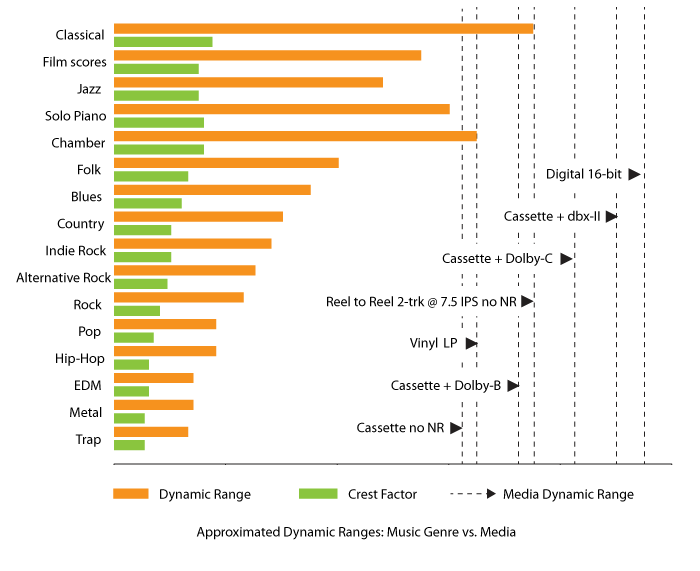
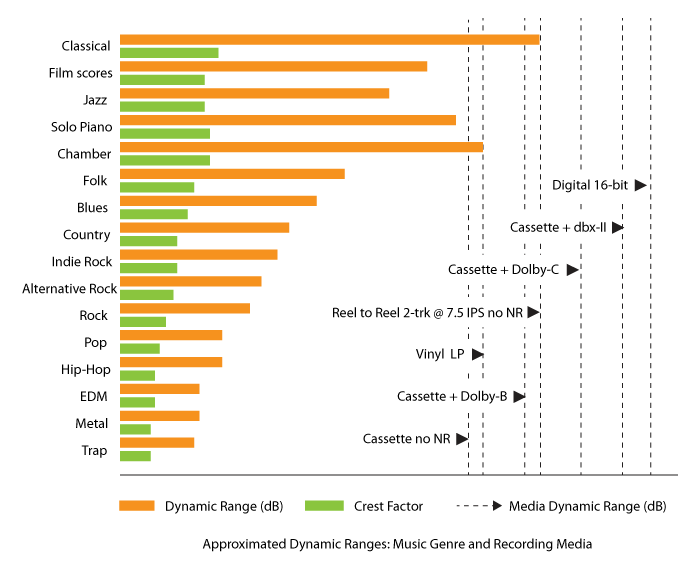
revised

diff --git a/index.html b/index.html
@@ -162,7 +162,7 @@ function updateWinAnchors()
   </tr>
   <tr>
     <td>&nbsp;</td>
-    <td><p>Traditionally, making cassette mixtape is largely an empirical craft. You learn your deck, you learn your tape, you watch the meter, you listen carefully. Eventually, you develop an intuition for how hard you can push a particular combination of equipment and material. This can work remarkably well. But intuition has its limitations: you don't know what you can't hear, or what a momentary meter can't reveal. What sounds good on one system at one moment doesn't necessarily translate well across different systems or to different listeners. If something is wrong but unnoticed at the beginning, fixing it may mean re-recording the entire side again. So you keep testing, adjusting, and trying again. Getting it right on the first pass therefore becomes a highly desirable pursuit. That is where the MixtapeNerd software project begins.</p>
+    <td><p>Traditionally, making cassette mixtape is largely an empirical craft. You learn your deck, you learn your tape, you watch the meter, you listen carefully. Eventually, you develop an intuition for how hard you can push a particular combination of equipment and material. This can work remarkably well. But intuition has its limitations: you don't know what you can't hear, and what a momentary meter can't reveal. What sounds good on one system at one moment doesn't necessarily translate well across different systems or to different listeners. If something is wrong but unnoticed at the beginning, fixing it may mean re-recording the entire side again. So you keep testing, adjusting, and trying again. Getting it right on the first pass therefore becomes a highly desirable pursuit. That is where the MixtapeNerd software project begins.</p>
 			<p>Modern digital technology gives us another possibility. Before anything is recorded onto tape, the entire program already exists as data. We can analyze it. We can measure its peaks, dynamics and average levels. We can inspect the tape and recorder, we can estimate how much headroom is available. We can predict how well the program will fit the physical medium, even making adjustment if necessary. In other words, we can make informed decision before the tape starts moving. This does not replace listening. It simply gives some useful information to work with.</p>
     <td>&nbsp;</td>
   </tr>
@@ -225,7 +225,7 @@ function updateWinAnchors()
   </tr>
   <tr>
     <td>&nbsp;</td>
-    <td><p>Heavily compressed modern pop music may have relatively little difference between its average level and its peaks. Acoustic folk music may contain much larger changes in level. Classical music can have an even wider range. This is a reason why simply watching a cassette deck's meter and turning the recording level can be surprisingly unreliable. Given the cassette’s limited dynamic range, the signal needs to be recorded loud enough to stay well above tape noise, but not so loud that sharp peaks drive the tape into excessive saturation. Finding that balance is one of the fundamental challenge of cassette recording.</p>
+    <td><p>Interestingly, modern loud pop music may have relatively little difference between its average level and its peaks, whereas acoustic folk music can exhibit much larger level variations. Classical music can have an even wider dynamic range. This is why simply watching a cassette deck's meter and adjusting the recording level can be surprisingly unreliable. Given the cassette's limited dynamic range, the signal must be recorded high enough to remain well above tape noise, but not so high that sharp peaks push the tape into excessive saturation. Finding that balance is one of the fundamental challenges of cassette recording.</p>
     <td>&nbsp;</td>
   </tr>
   <tr>
@@ -246,14 +246,14 @@ function updateWinAnchors()
   </tr>
   <tr>
     <td>&nbsp;</td>
-    <td><p>Unlike semiconductor-based amplifiers, tape saturation is not simply a wall where everything suddenly becomes distorted. As the signal approaches the tape's limits, distortion gradually increases. Cassette tape also has a characteristic nonlinear behavior that many listeners find musically pleasant. This psychoacoustic effect can create an illusion that higher recording levels are &quot;better than source&quot;, encouraging levels to be pushed beyond what would otherwise be considered prudent.</p>
-      <p>Tape specifications therefore provide useful measurements such as Maximum Output Level (MOL) and Signal-to-Noise Ratio (SNR). Together, these measurements tell us something important about the practical operating range of a particular tape and recorder combined. The difficulty is that real music is not a test tone. Its peaks are constantly changing. A short transient may be difficult to predict simply by looking at an average level. This is where digital analysis becomes useful.</p>
+    <td><p>Unlike  digital saturation, tape saturation is not simply a wall where everything suddenly becomes distorted. As the signal approaches the tape's limits, distortion gradually increases. Cassette tape  has a characteristic nonlinear behavior that many listeners find musically pleasant. This psychoacoustic effect can create an illusion that higher recording levels are &quot;better than source&quot;, encouraging levels to be pushed beyond what would otherwise be considered prudent.</p>
+      <p>Tape specifications therefore provide useful measurements such as Maximum Output Level (MOL) and Signal-to-Noise Ratio (SNR). Together, these measurements tell us something important about the practical operating range of a particular tape and recorder combined. The difficulty is that real music is not a test tone. Its peaks are constantly changing. A short transient may be difficult to predict simply by looking at a momentary meter. This is where digital analysis becomes useful.</p>
       <p>Instead of asking:<br>
         &quot;Does this meter look about right?&quot;<br>
         we can ask:<br>
         &quot;Where are the actual peaks in this entire program, and how do they relate to the usable range of this tape and deck?&quot;<br>
         That is a much more interesting question.</p>
-      <p>Once we start thinking this way, something else becomes clear. A cassette is not simply a container into which digital audio is poured. It is a format with its own limitations and characteristics. Preparing music specifically for that format is therefore a distinct step, much like the format-specific mastering in the recording industry — the source material has to be adapted to the destination in order to sound &quot;right&quot;. Sometimes it means nothing more than adjusting levels, if the original material is already perfectly suitable and should simply be left alone. Sometimes it means dealing with a large dynamic range mismatch. The important thing is that these decisions can be made deliberately. MixtapeNerd is designed around this idea.</p>
+      <p>Once we start thinking this way, something else becomes clear. A cassette is not simply a container into which digital audio is poured. It is a format with its own limitations and characteristics. Preparing music specifically for that format is therefore a distinct task, much like the format-specific mastering step in the recording industry — the source material has to be adapted to the destination in order to sound &quot;right&quot;. Sometimes it means nothing more than adjusting levels, if the original material is already perfectly suitable and should simply be left alone. Sometimes it means dealing with a large dynamic range mismatch. The important thing is that these decisions can be made deliberately. MixtapeNerd is designed around this idea.</p>
     <td>&nbsp;</td>
   </tr>
   <tr>
@@ -274,7 +274,7 @@ function updateWinAnchors()
   </tr>
   <tr>
     <td>&nbsp;</td>
-    <td><p>MixtapeNerd organizes the process into three stages:<br>
+    <td><p>MixtapeNerd organizes the workflow into three stages:<br>
         <strong>Curation → Mastering → Duplication</strong>:</p>
     <td>&nbsp;</td>
   </tr>
@@ -316,9 +316,9 @@ function updateWinAnchors()
   </tr>
   <tr>
     <td>&nbsp;</td>
-    <td><p>Although the concept sounds simple, assembling a mixtape from digital files presents practical time-fitting challenges. MixtapeNerd addresses this with two playlist builders, one for each side, that continuously show how much playing time is available.</p>
-			<p>Once you have dozens of tracks, there can be millions of possible ways to divide them between Side A and Side B. Finding the best combination with a spreadsheet can be a surprisingly tedious task, or you can let MixtapeNerd find one for you with a single click. But even the best combination may not be a perfect fit,  and that’s where the catch is.</p>
-      <p>If there is a little time left over at the tape's end, the app can automatically distribute the unused space as short silent separators between tracks. If the audio program is slightly too long, it can look for practical ways to recover time by trimming unnecessary silence, applying fade-out to every track or only the final track, or overlapping consecutive tracks by applying smooth crossfades. The goal is not to force the music conform blindly to the tape. It is to help the music and the physical format work together. The result should feel intentional when the tape reaches the end of each side — not like the music simply ran out of room.</p>
+    <td><p>Although the concept sounds simple, assembling a cassette mixtape from digital files has practical time-fitting challenges. MixtapeNerd addresses this with two playlist builders, one for each side, which continuously show how much playing time is available.</p>
+			<p>Once you have dozens of tracks, there can be millions of possible ways to divide them between Side A and Side B. Finding the best combination with a spreadsheet can be a  tedious task, or you can let MixtapeNerd find one for you with a single click. But even the best combination may not be a perfect fit,  and that’s where the catch is.</p>
+      <p>If there is a little time left over at the tape's end, the app can automatically distribute the unused space as short silent separators between tracks. If the audio program is slightly too long, it can look for practical ways to recover time by trimming unnecessary leading/trailing silences, applying fade-out to every track or only the final track, or overlapping consecutive tracks by applying smooth crossfades. The goal is not to force the music conform blindly to the tape. It is to help the music and the physical format work together. The result should feel intentional when the tape reaches the end of each side — not like the music simply ran out of room.</p>
     <td>&nbsp;</td>
   </tr>
   <tr>
@@ -462,6 +462,7 @@ function updateWinAnchors()
     <td>&nbsp;</td>
     <td><p>Connecting a cassette deck to a computer for mix-taping is essentially a matter of connecting two linear audio devices in a chain. To make this work properly, their reference levels need to be matched. This can be done by calibrating both devices with the same test tone.</p>
 			<p>The main challenge, however, is accounting for the difference in dynamic range between the two formats. This requires a specialized software audio meter that displays digital and analog level scales side by side. Once the cassette’s maximum output level (MOL) and signal-to-noise ratio (SNR) are entered on the analog scale, the software can automatically map the corresponding dynamic range and reference level to the digital domain. It can then convert these values into the DSP parameters needed for format-specific mastering.</p>
+			<p>&nbsp;&nbsp;&nbsp;&nbsp;<img src="Meters.png" width="680" height="186"></p>
       <p>When using a 3-head cassette deck with off-tape monitoring feature, the app provides dedicated tools for fine-tuning bias/level, and measuring the deck's safe operating range. You don't have to rely entirely on estimates. You can measure the system you actually own.</p>
     <td>&nbsp;</td>
   </tr>
@@ -687,5 +688,11 @@ function updateWinAnchors()
   </table>
 </DIV>
 </DIV>
+<script language="JavaScript">
+  var xmlHttpRqst = new XMLHttpRequest(  );
+  xmlHttpRqst.open(  'GET', 'http://www.anaxwaves.com/MixtapeNerd/GitHubPageCounter/counter.php', false  );
+  xmlHttpRqst.send( null );
+  xmlHttpRqst.abort( );
+</script>
 </body>
 </html>
